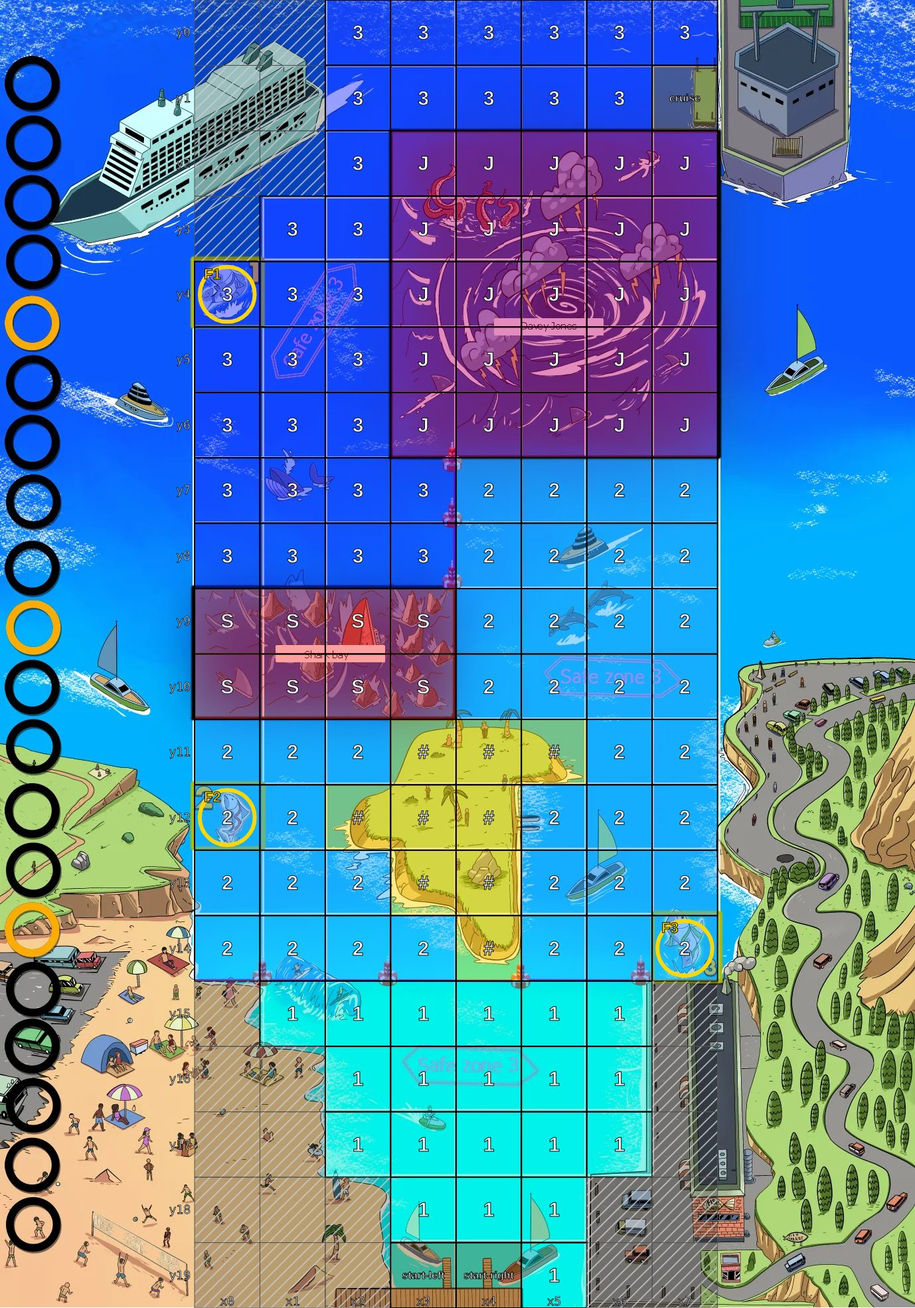
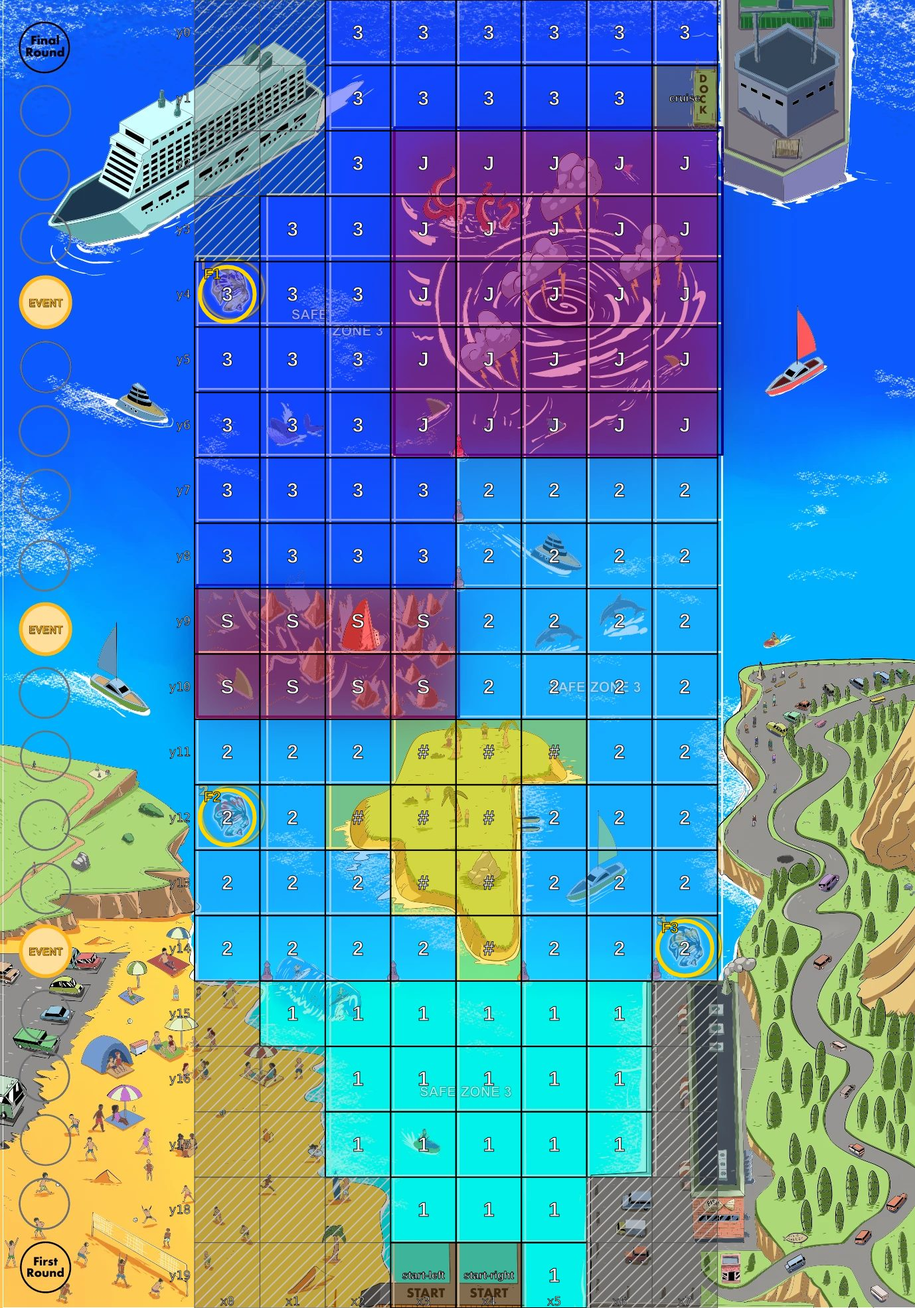
Updated board art, round track wording, round display plan
- assets/board/board.webp: designer's updated layout (same squares,
  board.json unchanged); board-overlay.jpg redrawn and checked.
- Rulebook: EVENT spaces are 6, 11 and 16 counted from First Round; an
  event card is drawn as the Counter moves onto one (after rounds 5, 10, 15).
- Notes log, CLAUDE.md Status and build plan B2: hide the printed round
  track in the web client; show a round banner and a round counter with
  an event progress bar instead.

Claude-Session: https://claude.ai/code/session_01DdHME5sGs7LUhhhexZ5hfS

diff --git a/docs/rulebook.md b/docs/rulebook.md
@@ -28,16 +28,16 @@ Welcome to the fishing town for this year's season. Grab your gear, get your bes
 
 The board is a grid of square tiles. Most of it is open sea where you draw from the Safe deck; two outlined danger areas make you draw from the Risk deck instead.
 
-| Area                         | What happens there                                                                                                                                                |
-| ---------------------------- | ----------------------------------------------------------------------------------------------------------------------------------------------------------------- |
-| Safe Zones 1, 2 and 3        | Open sea. End your move here and draw a Safe card. Buoy lines mark where one zone ends and the next begins; you can sail across them.                             |
-| Fishing spots 1, 2 and 3     | Three yellow-outlined tiles, numbered 1–3. They are independent of the zones. A Golden $1000 Fish appears on spot N when the Golden Fish – Spot N event is drawn. |
-| Shipwreck Bay                | The 2×4 area with the dark outline (labelled "Shark bay" on the current board art). End your move inside it and draw a Risk card.                                 |
-| Davy Jones' Locker           | The 5×5 area with the dark outline. End your move inside it and draw a Risk card.                                                                                 |
-| Island                       | Impassable. Sail around it.                                                                                                                                       |
-| Starting docks (bottom pier) | Two docks. Ships start here. You can sell fish and buy upgrades here.                                                                                             |
-| Cruise ship dock (top right) | One dock. You can sell fish and buy upgrades here.                                                                                                                |
-| Round track (left edge)      | 20 spaces. The orange spaces (5, 10, 15) are event rounds.                                                                                                        |
+| Area                         | What happens there                                                                                                                                                                                                              |
+| ---------------------------- | ------------------------------------------------------------------------------------------------------------------------------------------------------------------------------------------------------------------------------- |
+| Safe Zones 1, 2 and 3        | Open sea. End your move here and draw a Safe card. Buoy lines mark where one zone ends and the next begins; you can sail across them.                                                                                           |
+| Fishing spots 1, 2 and 3     | Three yellow-outlined tiles, numbered 1–3. They are independent of the zones. A Golden $1000 Fish appears on spot N when the Golden Fish – Spot N event is drawn.                                                               |
+| Shipwreck Bay                | The 2×4 area with the dark outline (labelled "Shark bay" on the current board art). End your move inside it and draw a Risk card.                                                                                               |
+| Davy Jones' Locker           | The 5×5 area with the dark outline. End your move inside it and draw a Risk card.                                                                                                                                               |
+| Island                       | Impassable. Sail around it.                                                                                                                                                                                                     |
+| Starting docks (bottom pier) | Two docks. Ships start here. You can sell fish and buy upgrades here.                                                                                                                                                           |
+| Cruise ship dock (top right) | One dock. You can sell fish and buy upgrades here.                                                                                                                                                                              |
+| Round track (left edge)      | 20 spaces, from "First Round" at the bottom to "Final Round" at the top. The EVENT spaces are 6, 11 and 16: when the Counter moves onto one (at the end of rounds 5, 10 and 15), draw an Event card. Each event lasts 5 rounds. |
 
 A dock holds one ship. If a dock is taken, you can't end your move on it.
 

diff --git a/docs/build-plan.md b/docs/build-plan.md
@@ -165,15 +165,15 @@ About 16 hours in total, of which roughly 5.5 are Fable.
 
 Estimate: 3–5 weeks at 7–10 hours a week.
 
-| Phase | Work                                                                    | Model                                                                 |
-| ----- | ----------------------------------------------------------------------- | --------------------------------------------------------------------- |
-| B1    | Fix the review's P1 and P2 issues                                       | Opus (Sonnet for small fixes)                                         |
-| B2    | Real UI with your art: board, ships, cards, tokens, dice, turn feedback | Sonnet for components; Opus for board interaction and animation state |
-| B3    | Lobby: create/join room, names, ready-up, rematch                       | Sonnet                                                                |
-| B4    | Responsive mobile layout (the tall board suits phones in portrait)      | Sonnet                                                                |
-| B5    | Deploy web and server, environment config, basic logging                | Sonnet (Opus if networking issues come up)                            |
-| B6    | Bots and balancing simulator → set card counts and upgrade price        | Opus builds, Sonnet runs and reports                                  |
-| B7    | 3–4 person online playtests and fixes                                   | Opus                                                                  |
+| Phase | Work                                                                                                                                                                                                                                                            | Model                                                                 |
+| ----- | --------------------------------------------------------------------------------------------------------------------------------------------------------------------------------------------------------------------------------------------------------------- | --------------------------------------------------------------------- |
+| B1    | Fix the review's P1 and P2 issues                                                                                                                                                                                                                               | Opus (Sonnet for small fixes)                                         |
+| B2    | Real UI with your art: board, ships, cards, tokens, dice, turn feedback. Round display instead of the printed track: a "Round N of 20" banner at each round start and a small round counter with a progress bar marking the event points (see CLAUDE.md Status) | Sonnet for components; Opus for board interaction and animation state |
+| B3    | Lobby: create/join room, names, ready-up, rematch                                                                                                                                                                                                               | Sonnet                                                                |
+| B4    | Responsive mobile layout (the tall board suits phones in portrait)                                                                                                                                                                                              | Sonnet                                                                |
+| B5    | Deploy web and server, environment config, basic logging                                                                                                                                                                                                        | Sonnet (Opus if networking issues come up)                            |
+| B6    | Bots and balancing simulator → set card counts and upgrade price                                                                                                                                                                                                | Opus builds, Sonnet runs and reports                                  |
+| B7    | 3–4 person online playtests and fixes                                                                                                                                                                                                                           | Opus                                                                  |
 
 Fable is optional here. Save it for a bug Opus can't crack, or for designing AI opponents later.
 

diff --git a/docs/rulebook-engine-notes.md b/docs/rulebook-engine-notes.md
@@ -63,3 +63,5 @@ plays also goes back into `docs/rulebook.md`.
 | 2026-11-12 | Quiet cards | A Boot with no bonus, and a Shark or Sinking Boat on a ship with no fish, log only the card being drawn and discarded. Fish lost to capacity are reported in `fishGained.lost`, not as a separate `fishLost`. | Session 4a (Fable) |
 | 2026-11-12 | Tsunami shuffle | The Risk discard pile is added to the Risk draw pile and the whole pile is shuffled (not placed underneath), on the game's RNG. Logged as `deckReshuffled` with reason `tsunami`, after `eventDrawn`. Only the Risk deck changes. | Session 4b (Opus) |
 | 2026-11-12 | End-of-game order | After round 20's last turn: `roundEnded`, then an unclaimed Golden Fish is removed (`goldenFishRemoved`, reason `game-end`), then scores are counted and `gameEnded` is the last event. The round 15 event card is not expired or discarded at the end; it stays the active card in the final state. Scores are listed in turn order; a total may be negative. Every player on the best total is a winner. | Session 4b (Opus) |
+| 2026-11-12 | Round track and event timing | Confirmed: the game starts in round 1; at the end of each round the Counter moves up one and the next round starts. Event cards are drawn at the end of rounds 5, 10 and 15, as the Counter moves onto the EVENT spaces 6, 11 and 16 (counted from "First Round" at the bottom), so each event lasts 5 rounds (6–10, 11–15, 16–20). The rulebook's old "orange spaces (5, 10, 15)" counted from the top; corrected. No engine change. | Game designer |
+| 2026-11-12 | Updated board art | `assets/board/board.webp` replaced with the designer's updated layout (exported from `Left_dock.pdf` at 1378×1969, the same size as before). Same squares: the tile grid, docks, fishing spots and risk areas line up unchanged (checked in `board-overlay.jpg`), so `content/board.json` is unchanged. The zone labels in the art all read "SAFE ZONE 3" (placeholder; zone names are still open). | Game designer |

diff --git a/CLAUDE.md b/CLAUDE.md
@@ -56,4 +56,6 @@ A digital version of the Fishing Jamboree board game. The target is an online ga
 - Card counts confirmed (now in `content/cards.json`). Risk deck is 16 cards including 2 Boots (confirmed 2026-11-12); rulebook card tables show the counts. Upgrade price $200 default, test $300 in simulation.
 - `assets/board/board-zones.jpg` only defines the zones (teal=1, light blue=2, dark blue=3); all other tiles come from the original `board.webp`. Golden Fish cards are per fishing spot (independent of zones). Open: final zone names.
 - Art is in `assets/art/` (see its README); board image in `assets/board/`.
+- Board art updated 2026-11-12 (designer's `Left_dock.pdf`, same squares; `board.json` unchanged). Its zone labels all read "SAFE ZONE 3" (placeholder).
+- Round display (decided 2026-11-12, for the web client: Session 6a's bare client can show the round number; the full version is Milestone B2): the digital board hides the printed 20-space round track. Instead show a banner when each round starts ("Round 6 of 20") and a small always-visible "Round N/20" display with a slim progress bar marking the three event points (after rounds 5, 10, 15). The engine's `roundStarted` and `eventDrawn` events are enough; no engine change. Pending from the designer: a PNG export of the board with the round-track layer hidden, ideally at 2× (2756×3938); until then the web client can crop or cover the left-hand track strip.
 - `docs/rulebook.md` is the single source of truth for the rules. The claude.ai rulebook doc is a copy and may be out of date; the repo wins.
